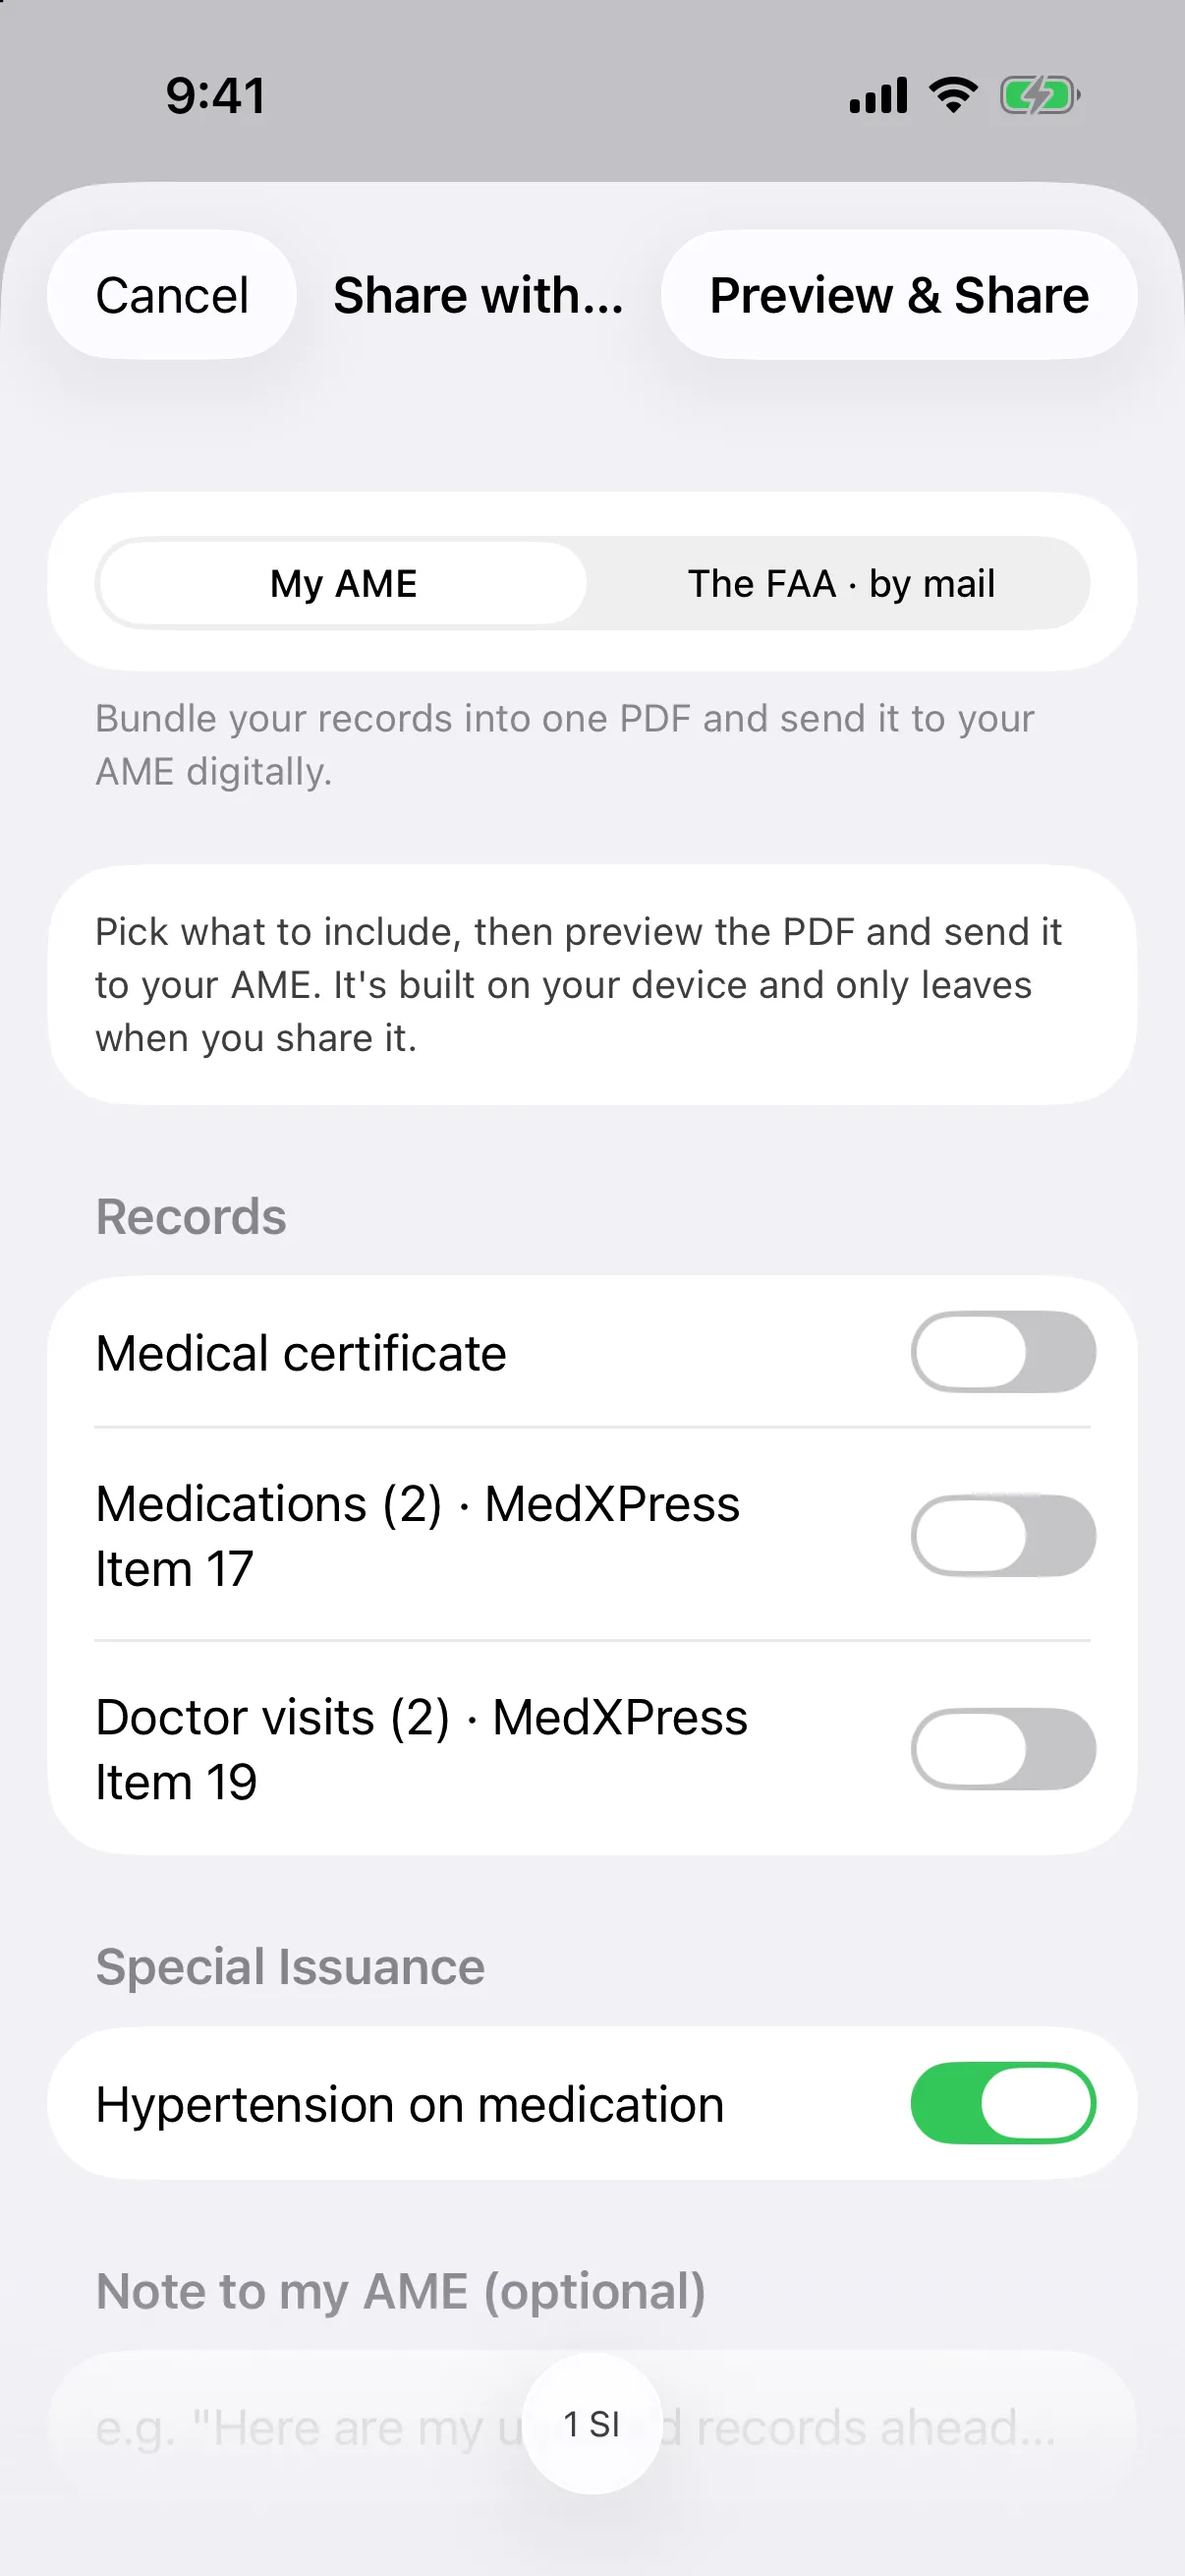
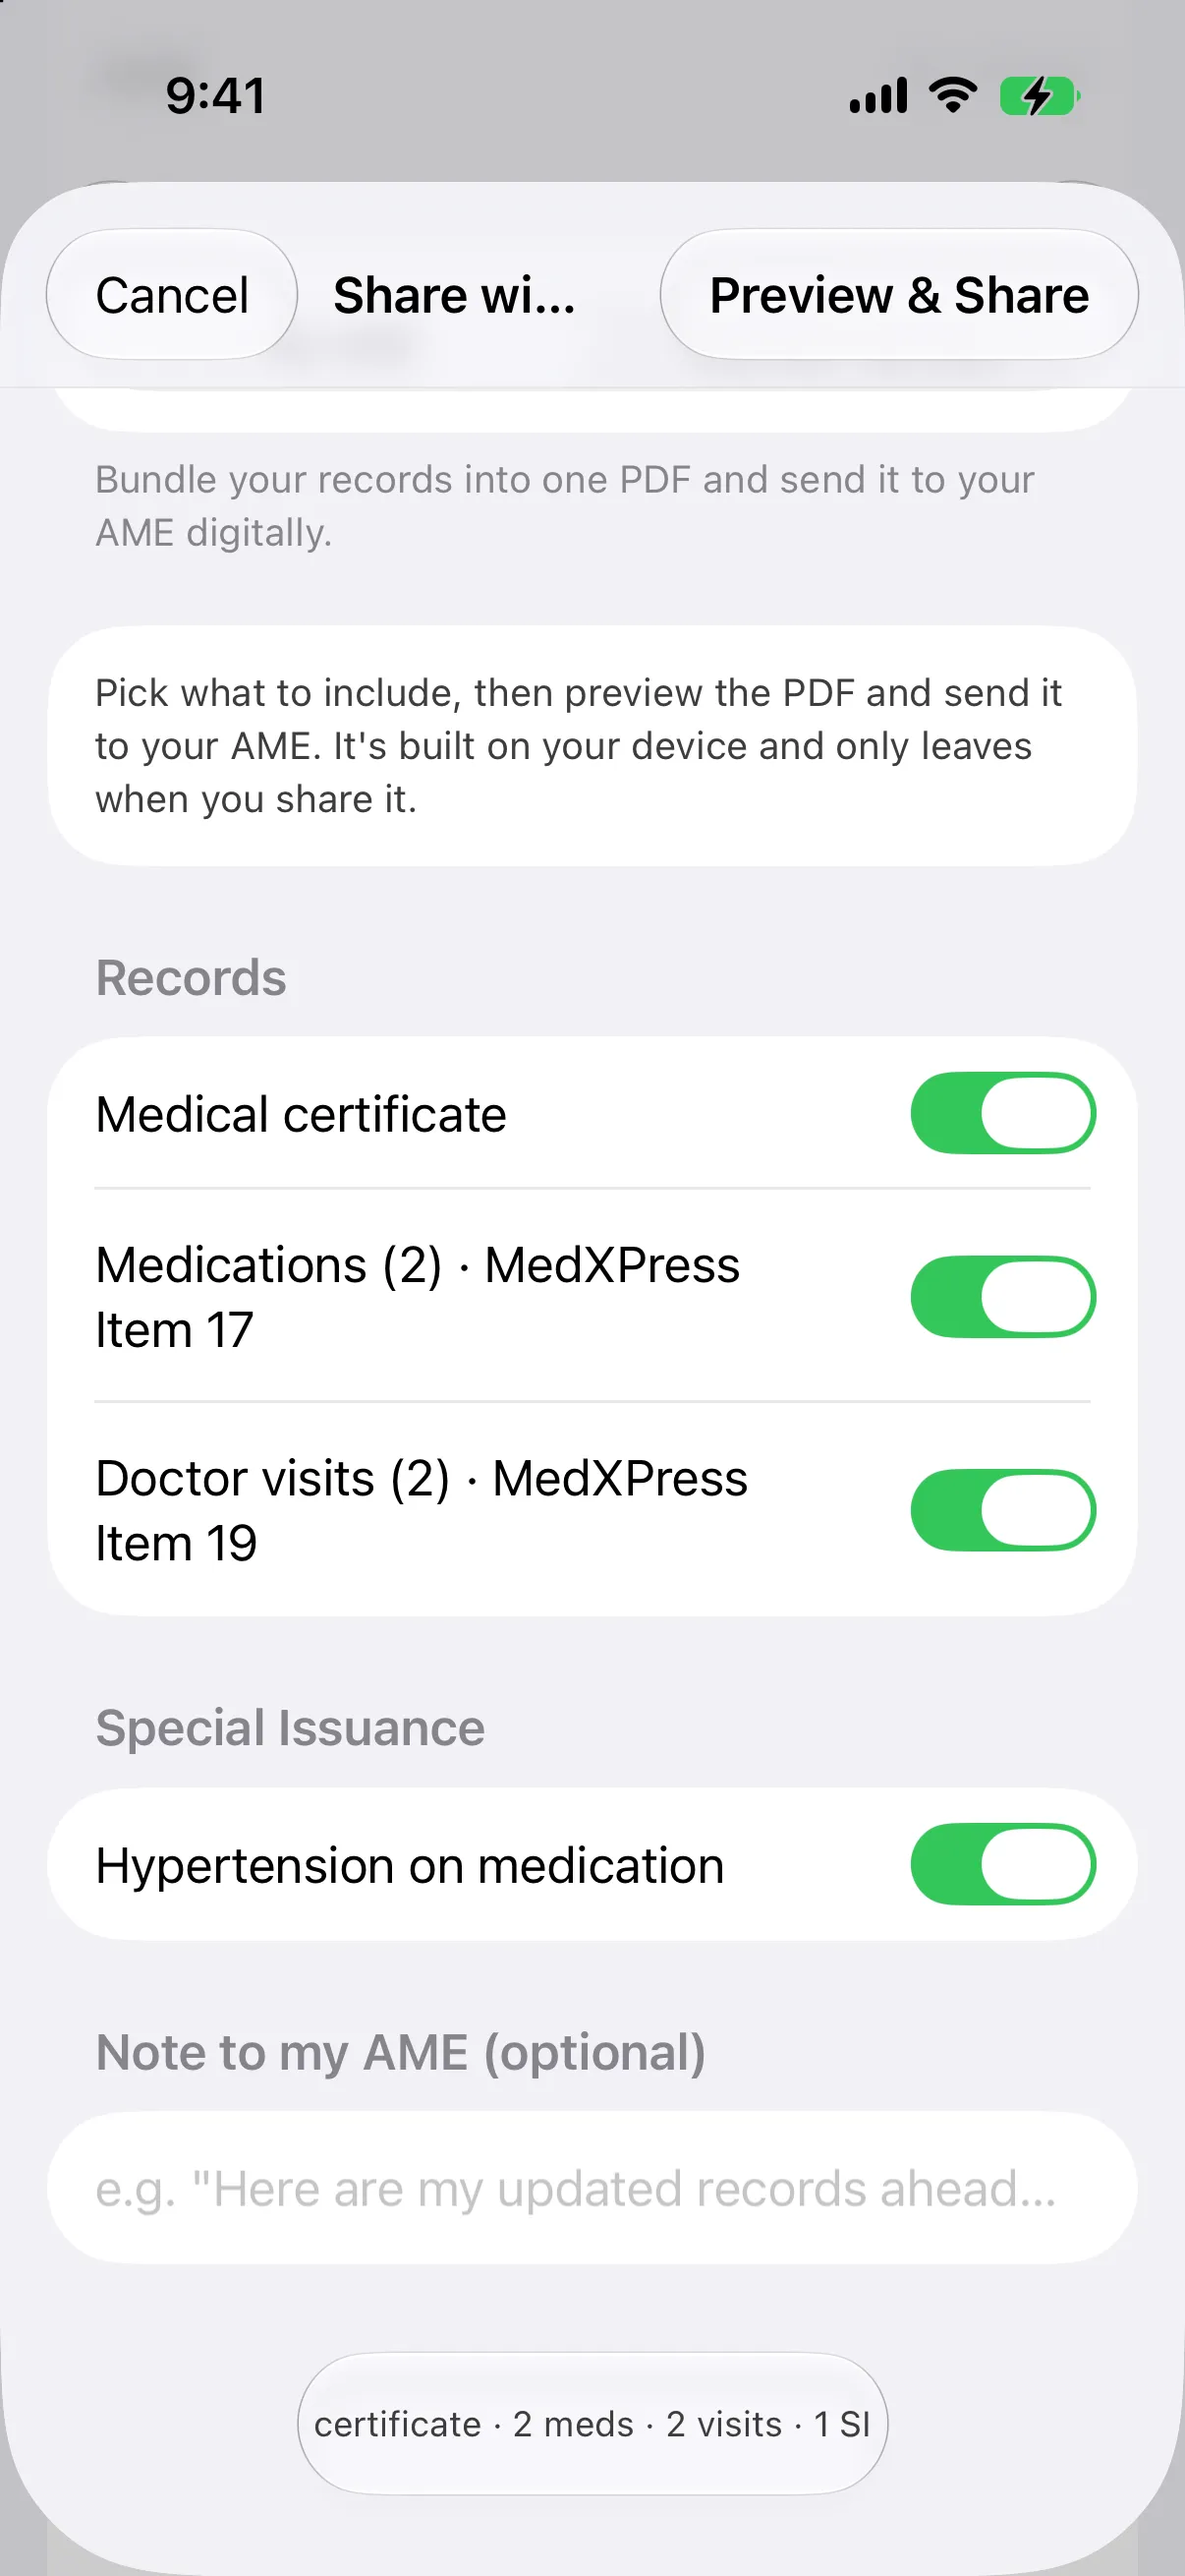
Recapture the Share-with-AME shot from the entry point that shows the feature
The refresh this morning captured this screen through the share button inside the
Hypertension SI detail. RecordsShareView clears the certificate, medications and
visits toggles on that path by design, because a scoped share is about one
condition, so the website was showing three of four switches off under a caption
that reads "Bundle it into one PDF for your AME". The July shot it replaced had
all four on, and so does the iPad screenshot uploaded to App Store Connect today.

Recaptured from My Medical, Share with my AME, which is the unscoped entry: all
four on, and the running summary reads "certificate, 2 meds, 2 visits, 1 SI"
instead of the bare "1 SI" that was landing on top of the note placeholder.

Same simulator recipe as the morning set: erased iPhone 17 Pro, no iCloud
account, -PMGSeedDemoData, light mode, 9:41 status bar. Comp flag on, because
Share with your AME is Guardian Pro, which is what the old shot did too.

Native 1206x2622 cropped to 1206x2620 so the declared dimensions still hold, webp
at q80. Cache-buster to 20260828b since the date alone no longer distinguishes it.

diff --git a/index.html b/index.html
@@ -444,7 +444,7 @@
         <figure><img src="/screenshots/medxpress.webp?v=20260828" width="1206" height="2620" loading="lazy" decoding="async" alt="The in-app records screen with medications and doctor visits organized to match the FAA form"><figcaption>Your records, organized and ready to autofill</figcaption></figure>
         <figure><img src="/screenshots/si.webp?v=20260828" width="1206" height="2620" loading="lazy" decoding="async" alt="Special Issuance checklist with requirements and reminders"><figcaption>Stay on top of Special Issuance</figcaption></figure>
         <figure><img src="/screenshots/health.webp?v=20260828" width="1206" height="2620" loading="lazy" decoding="async" alt="A health metric charted against the FAA's cited threshold"><figcaption>Your numbers vs. the FAA's own thresholds</figcaption></figure>
-        <figure><img src="/screenshots/documents.webp?v=20260828" width="1206" height="2620" loading="lazy" decoding="async" alt="The Share-with-your-AME screen, choosing which records to bundle into one PDF"><figcaption>Bundle it into one PDF for your AME</figcaption></figure>
+        <figure><img src="/screenshots/documents.webp?v=20260828b" width="1206" height="2620" loading="lazy" decoding="async" alt="The Share-with-your-AME screen, choosing which records to bundle into one PDF"><figcaption>Bundle it into one PDF for your AME</figcaption></figure>
       </div>
       <p class="fineprint">Screens use sample data.</p>
     </div>
